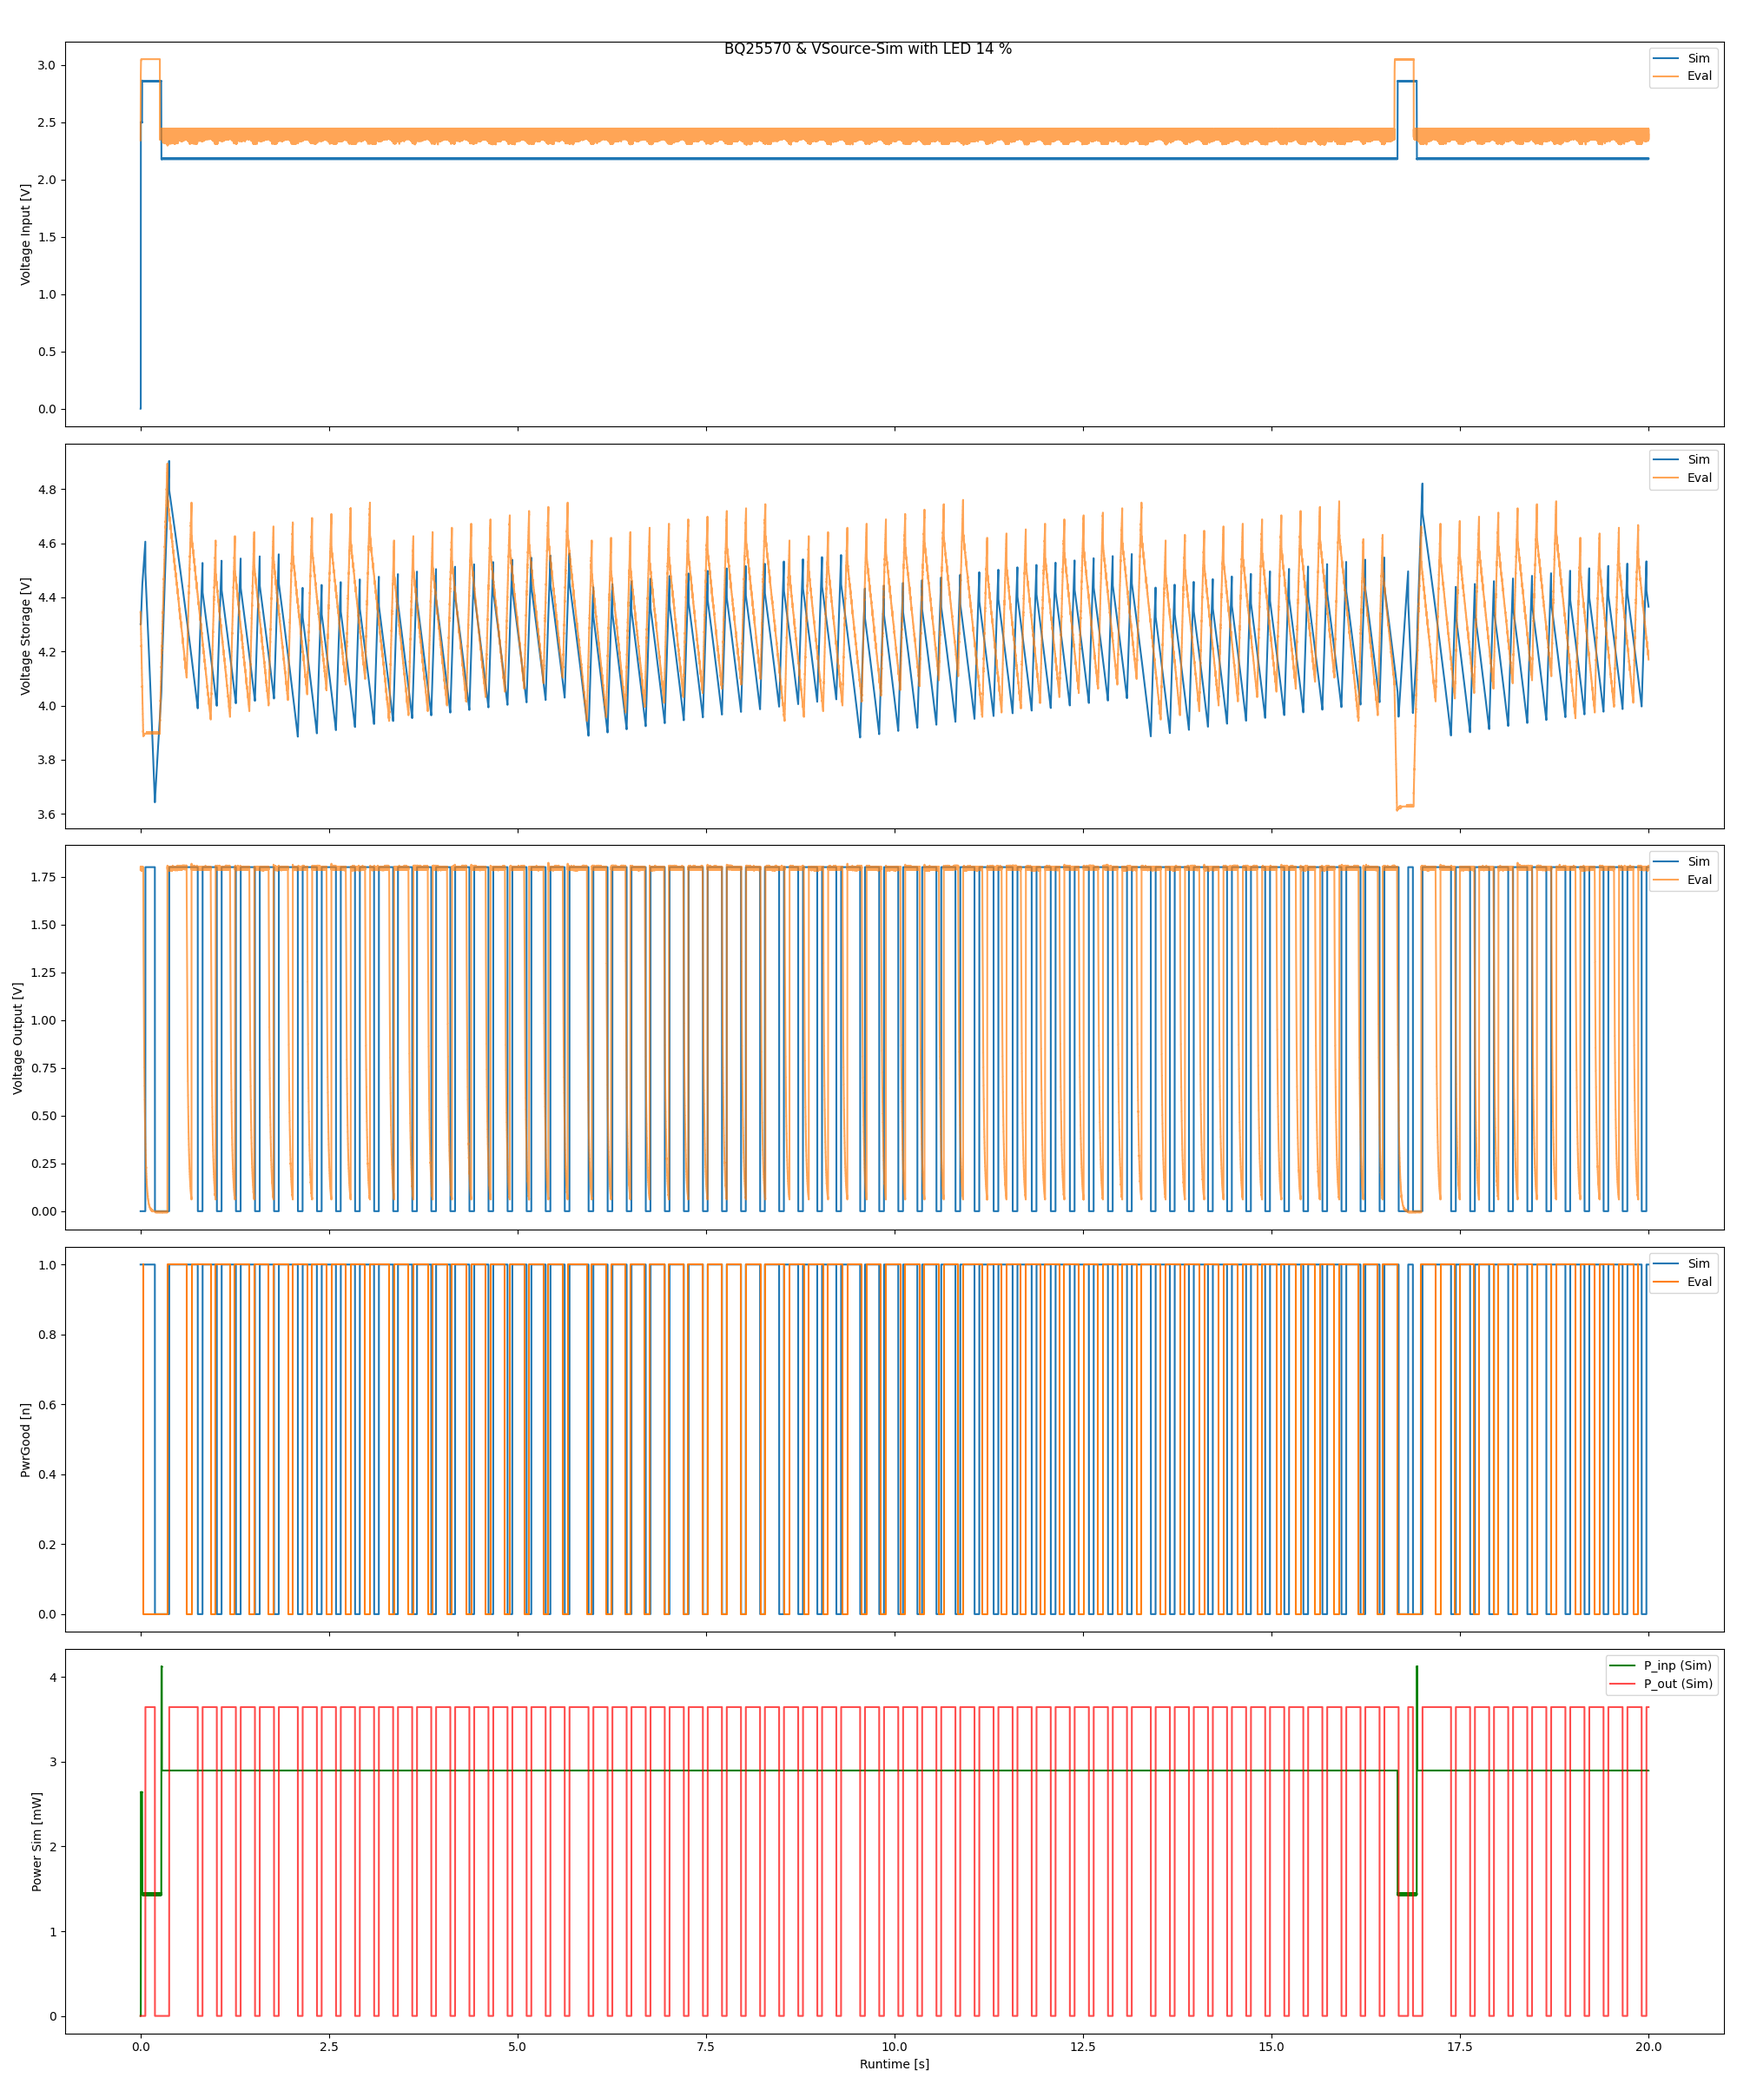
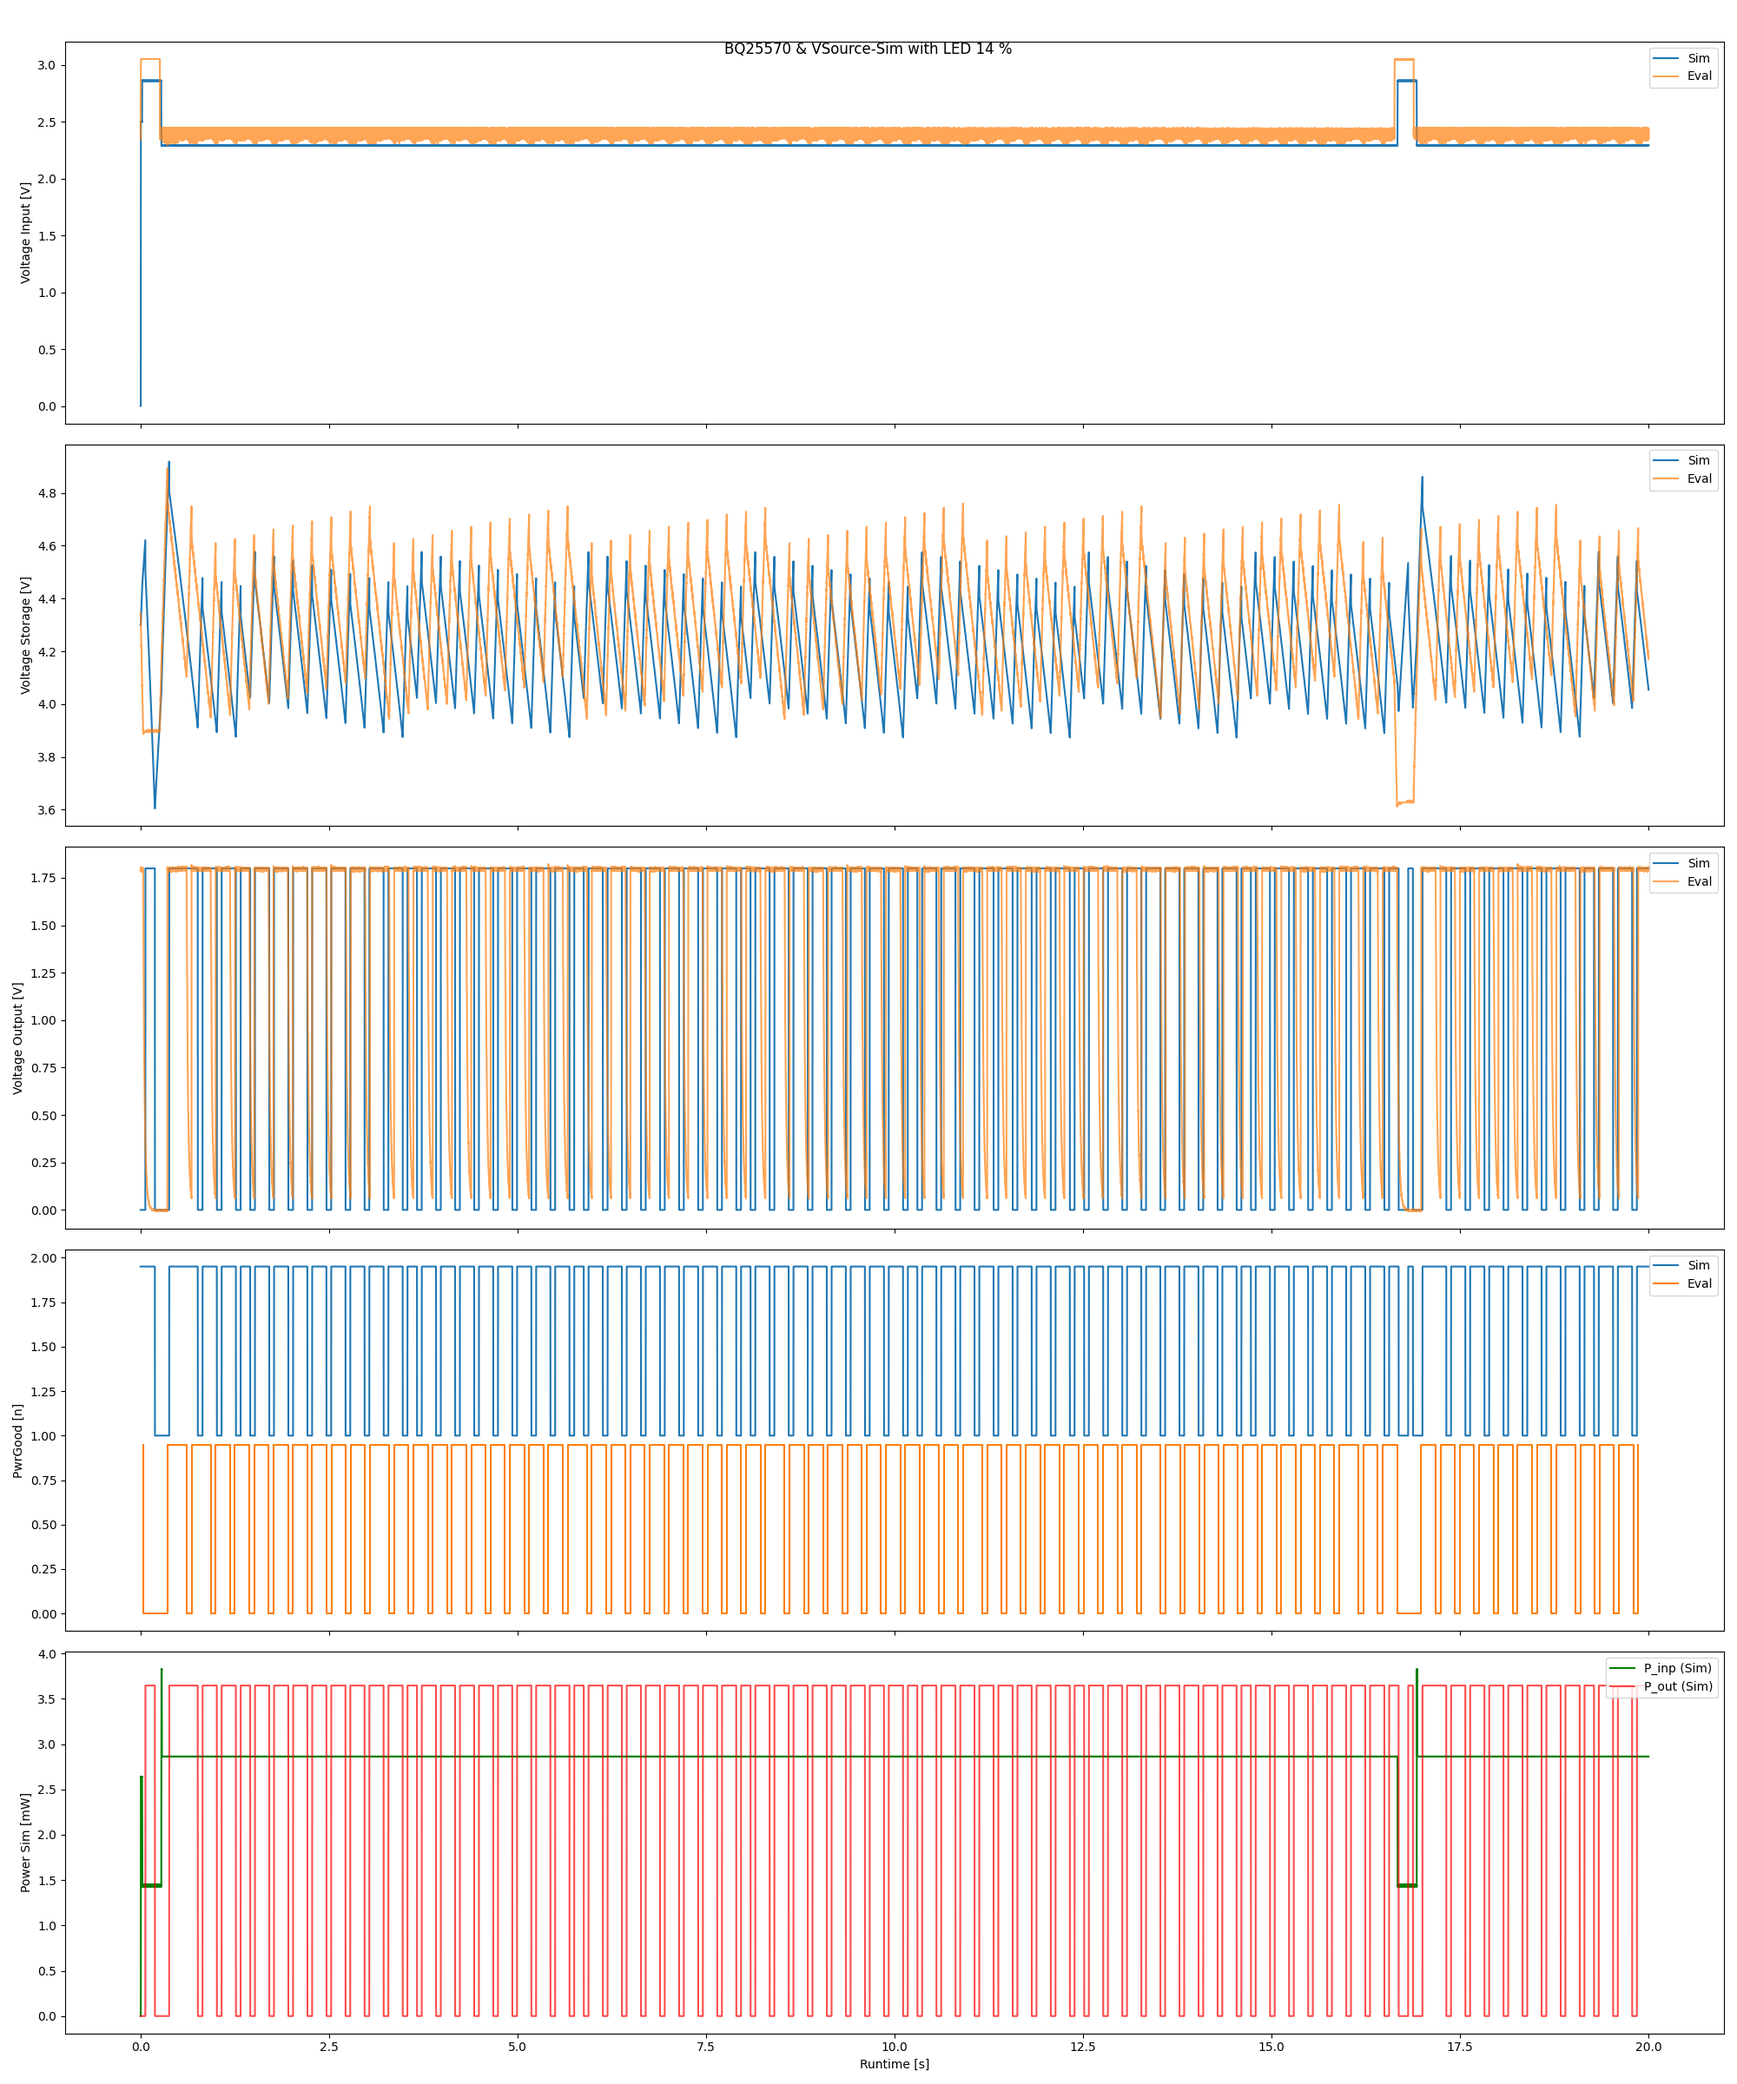
small fixes

diff --git a/eval_kit_behavior_var3/shepherd_cfg_bq.py b/eval_kit_behavior_var3/shepherd_cfg_bq.py
@@ -10,10 +10,11 @@ cfg_bq25570_base = VirtualSourceConfig(
         name="mppt_bq_solar",
         # rising=False,
         enable_linear_extrapolation=False,  # disable newer feature
-        samples_n=1000,
+        samples_n=900,
         # TODO: fixes bug in CoreLib
         #  - samples_n is still default, so
         #  - voltage_step_mV = (5000 - 0) / 7 with 7 as sample_n (=8) - 1
+        setpoint_n=0.8,
     ),
     enable_feedback_to_hrv=False,  # disable newer feature
     # eval board spec & modification
@@ -40,11 +41,15 @@ cfg_bq25570_eval = VirtualSourceConfig(
         enable_linear_extrapolation=True,
         interval_ms=16650,  # from recording
         duration_ms=255,  # from recording
-        samples_n=1000,  # TODO: fixes bug in CoreLib
+        samples_n=900,  # TODO: fixes bug in CoreLib
+        setpoint_n=0.8,
     ),
     enable_feedback_to_hrv=False,  # disable newer feature
     # eval board spec & modification
-    C_intermediate_uF=80,
+    C_intermediate_uF=76.0,
+    # Voltage Bias of Cap:
+    # 79.8 uF @ 3.8 V
+    # 67.2 uF @ 5.2 V
     V_intermediate_init_mV=4300,
     V_intermediate_max_mV=5220,
     V_intermediate_enable_threshold_mV=2430,
@@ -52,7 +57,7 @@ cfg_bq25570_eval = VirtualSourceConfig(
     V_pwr_good_enable_threshold_mV=4430,
     V_pwr_good_disable_threshold_mV=4030,
     V_output_mV=1800,
-    C_output_uF=23,
+    C_output_uF=15,  # Enable-Drop is ~ 130 mV
     interval_check_thresholds_ms=63.2,
     # add measured LUTs - the presets are too efficient
     # board_A_boost_VCap3V0

diff --git a/eval_kit_behavior_var2/shepherd_cfg_bq.py b/eval_kit_behavior_var2/shepherd_cfg_bq.py
@@ -10,10 +10,11 @@ cfg_bq25570_base = VirtualSourceConfig(
         name="mppt_bq_solar",
         # rising=False,
         enable_linear_extrapolation=False,  # disable newer feature
-        samples_n=1000,
+        samples_n=900,
         # TODO: fixes bug in CoreLib
         #  - samples_n is still default, so
         #  - voltage_step_mV = (5000 - 0) / 7 with 7 as sample_n (=8) - 1
+        setpoint_n=0.8,
     ),
     enable_feedback_to_hrv=False,  # disable newer feature
     # eval board spec & modification
@@ -40,11 +41,15 @@ cfg_bq25570_eval = VirtualSourceConfig(
         enable_linear_extrapolation=True,
         interval_ms=16650,  # from recording
         duration_ms=255,  # from recording
-        samples_n=1000,  # TODO: fixes bug in CoreLib
+        samples_n=900,  # TODO: fixes bug in CoreLib
+        setpoint_n=0.8,
     ),
     enable_feedback_to_hrv=False,  # disable newer feature
     # eval board spec & modification
-    C_intermediate_uF=80,
+    C_intermediate_uF=76.0,
+    # Voltage Bias of Cap:
+    # 79.8 uF @ 3.8 V
+    # 67.2 uF @ 5.2 V
     V_intermediate_init_mV=4300,
     V_intermediate_max_mV=5220,
     V_intermediate_enable_threshold_mV=4430,

diff --git a/eval_kit_behavior_var3/plot_comparison_behavior.py b/eval_kit_behavior_var3/plot_comparison_behavior.py
@@ -13,7 +13,7 @@ from shepherd_sim_vsrc import simulate_source
 
 # config - mainly for sim
 path_here = Path(__file__).parent
-target = ResistiveTarget(R_Ohm=1000, controlled=True)
+target = ResistiveTarget(R_Ohm=984, controlled=True)
 eval_runtime = 20
 
 for name, path in solar_paths.items():
@@ -73,8 +73,8 @@ for name, path in solar_paths.items():
     axs[2].legend(["Sim", "Eval"], loc="upper right")
 
     axs[3].set_ylabel("PwrGood [n]")
-    axs[3].plot(sim_stats["time"], sim_stats["PwrGood"])
-    axs[3].plot(eval_pwrgd["Time [s]"], eval_pwrgd["BAT_OK"])
+    axs[3].plot(sim_stats["time"], 0.95 * sim_stats["PwrGood"] + 1)
+    axs[3].plot(eval_pwrgd["Time [s]"], 0.95 * eval_pwrgd["BAT_OK"])
     axs[3].legend(["Sim", "Eval"], loc="upper right")
 
     axs[4].set_ylabel("Power Sim [mW]")

diff --git a/eval_kit_behavior_var2/plot_comparison_behavior.py b/eval_kit_behavior_var2/plot_comparison_behavior.py
@@ -73,8 +73,8 @@ for name, path in solar_paths.items():
     axs[2].legend(["Sim", "Eval"], loc="upper right")
 
     axs[3].set_ylabel("PwrGood [n]")
-    axs[3].plot(sim_stats["time"], sim_stats["PwrGood"])
-    axs[3].plot(eval_pwrgd["Time [s]"], eval_pwrgd["BAT_OK"])
+    axs[3].plot(sim_stats["time"], 0.95 * sim_stats["PwrGood"] + 1)
+    axs[3].plot(eval_pwrgd["Time [s]"], 0.95 * eval_pwrgd["BAT_OK"])
     axs[3].legend(["Sim", "Eval"], loc="upper right")
 
     axs[4].set_ylabel("Power Sim [mW]")

diff --git a/eval_kit_behavior_var3/data_bq/__init__.py b/eval_kit_behavior_var3/data_bq/__init__.py
@@ -23,7 +23,7 @@ data_ts_voc: dict = {  # timestamp of first recorded VOC-meas
     "LED  8 %, 1k Load": 14.005,
     "LED 10 %, 1k Load": 3.363,
     "LED 12 %, 1k Load": 13.031,
-    "LED 14 %, 1k Load": 14.453,
+    "LED 14 %, 1k Load": 13.453,
     "LED 16 %, 1k Load": 14.589,
     "LED 18 %, 1k Load": 15.508,
     "LED 20 %, 1k Load": 22.974,

diff --git a/eval_kit_behavior_var3/plot_statistics_vsrc.py b/eval_kit_behavior_var3/plot_statistics_vsrc.py
@@ -18,7 +18,7 @@ result_eval: dict = {
     "efficiency2": [],
 }
 
-target = ResistiveTarget(R_Ohm=1000, controlled=True)
+target = ResistiveTarget(R_Ohm=984, controlled=True)
 eval_runtime = 50
 
 for name, path in solar_paths.items():

diff --git a/eval_kit_behavior_var3/plot_statistics_bq.py b/eval_kit_behavior_var3/plot_statistics_bq.py
@@ -17,7 +17,7 @@ result_eval: dict = {
     "efficiency2": [],
 }
 
-R_out = 1000
+R_out = 984 # measured with multimeter
 
 for name in bq_names:
     # first cmd throws away 1st & last entry to avoid partially sampled durations
